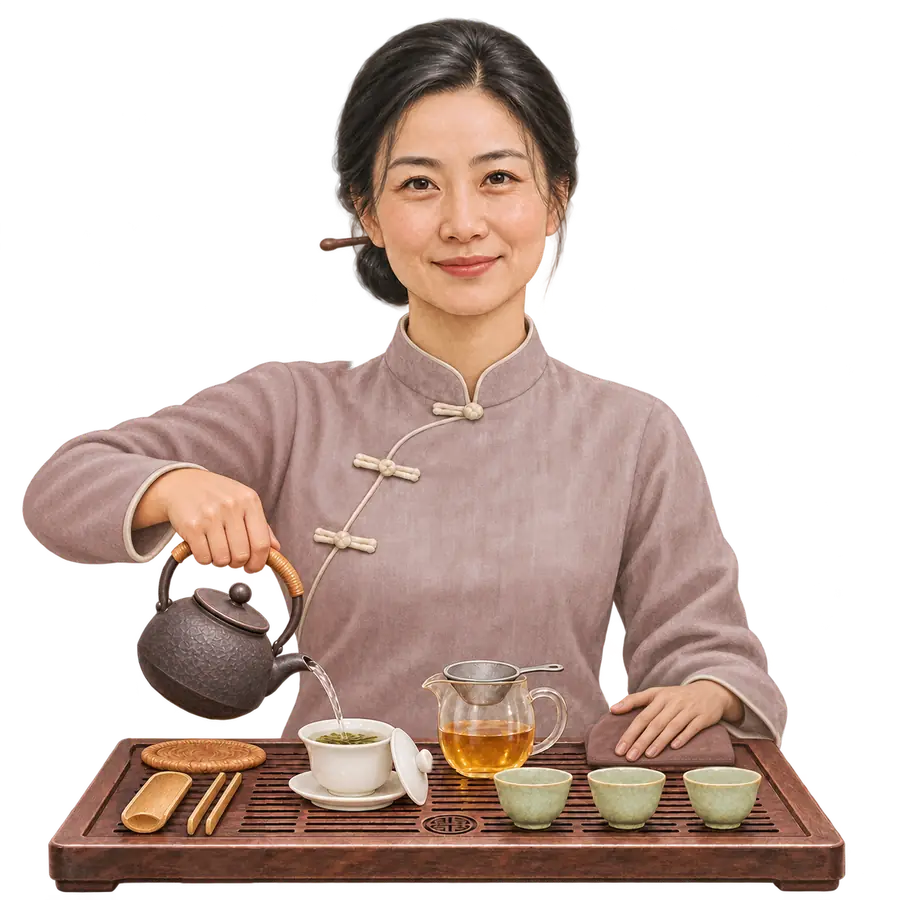
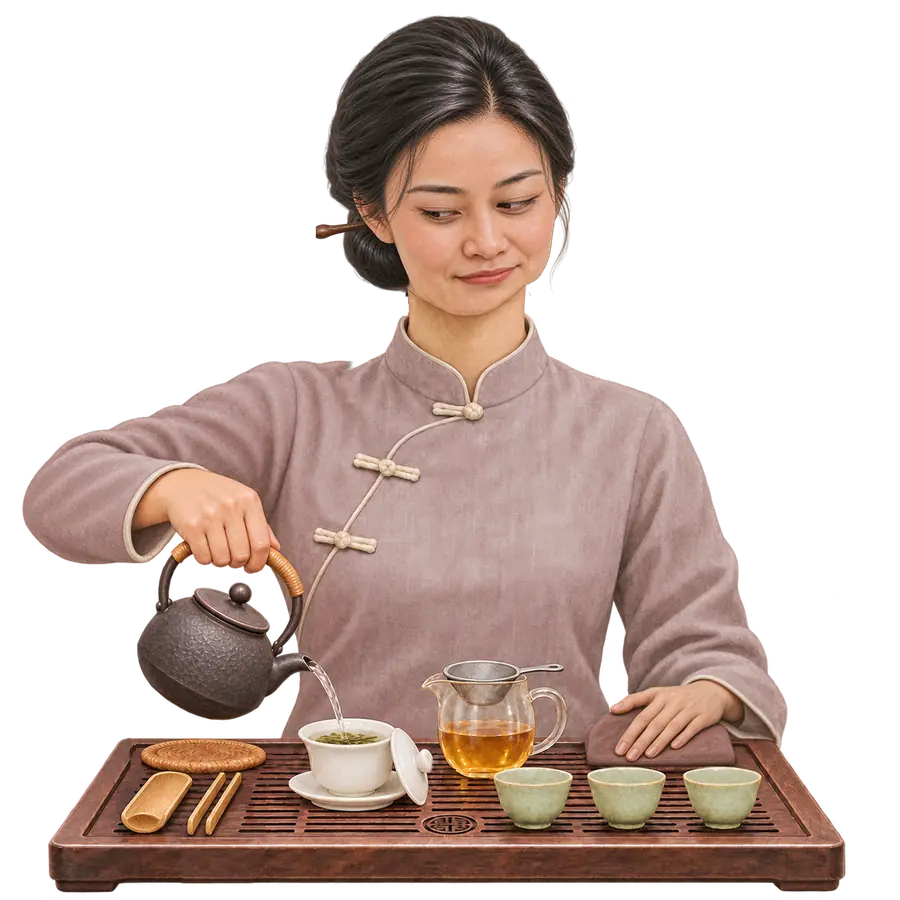
Master Su watches the pour; no flickers or cut-off pours
Round 3 frames from the animator: in the 12 working frames her head
tips towards the vessel and her eyes follow the stream; in the 7 reach
frames she glances down at what she is reaching for. Only the head
changed, everything else matches round 2.

Playback, for both hosts:
- a talking drawing is never up for a frame or two before a gesture
- a pour already under way is finished and set down before the host
  turns to answer, and the vessel only changes after that
- clicking Send no longer flashes the resting pose
- no blink straight after setting something down

Claude-Session: https://claude.ai/code/session_01FvpSvFpFZJn68NFhobHFM3

Changed region(s): [[0.3422, 0.0, 0.6533, 0.3422]]

diff --git a/index.html b/index.html
@@ -3744,7 +3744,7 @@ initReviews();
     const note=$("thNote"); if(note) note.textContent="Master Su is an AI character. She knows a lot about tea but can still be wrong, so check anything important. She answers in the language you write in. Your conversation isn’t saved.";}
   /* His frames: the idle drawing is always there; show() puts at most one pose over it ("" shows plain idle). */
   const frames={}; man.querySelectorAll("img[data-pose]").forEach(i=>{frames[i.dataset.pose]=i;});
-  let shown="", resting="", acting=0;
+  let shown="", resting="", acting=0, shownAt=0;
   /* a cut: the old frame off and the new one on in the same paint. A frame that hasn't loaded and decoded yet is
      skipped and he stays as he is, so a cut never shows an empty stage. */
   const ready=new Set([""]);
@@ -3774,7 +3774,7 @@ initReviews();
     patch.classList.toggle("on",gw&&PATCHED.has(name));
     const full=tea.cups&(name in CUPS?CUPS[name]:7); cupEls.forEach((c,i)=>c.classList.toggle("on",!!(full>>i&1)&&ready.has("+cup"+i)));
     if(name===shown) return;
-    frames[shown].classList.remove("on"); frames[name].classList.add("on"); shown=name;};
+    frames[shown].classList.remove("on"); frames[name].classList.add("on"); shown=name; shownAt=performance.now();};
   /* the vessel changes between replies, and only once every gaiwan drawing has loaded. A change of vessel is a
      change of tea, so the new vessel starts dry and empty; what is already in the pitcher and the cups stays. */
   const setVessel=on=>{on=!!on&&ready.has("+gaiwan")&&Object.keys(frames).every(n=>!/gaiwan/.test(n)||ready.has(n)); if(on===gw) return;
@@ -3789,7 +3789,7 @@ initReviews();
   const stop=()=>{acting=0; rest();};
   /* he blinks every few seconds while resting, now and then twice; the blink frame only fits the idle head */
   const blink=()=>{setTimeout(()=>{
-      if(!acting&&shown===""&&!quiet()){show("blink");
+      if(!acting&&shown===""&&!quiet()&&performance.now()-shownAt>350){show("blink");
         setTimeout(()=>{if(shown==="blink") show("");
           if(Math.random()<.2) setTimeout(()=>{if(!acting&&shown===""){show("blink"); setTimeout(()=>{if(shown==="blink") show("")},110);}},150);},120);}
       blink();},2600+Math.random()*3800);};
@@ -3973,8 +3973,12 @@ initReviews();
     const step=now=>{if(run!==acting){if(!done){done=true; el.innerHTML=para(text); follow(el.parentElement); res();} return;}
       const t=now-t0, k=Math.min(1,t/dur), g=tl.find(c=>t>=c.start&&t<c.end);
       if(g) act(g);
-      else if(t<dur){if(now>=flip){mouth^=1; flip=now+(mouth?260+Math.random()*420:380+Math.random()*640);}
-        const up=breaks.filter(b=>b<=k).length%2===1; show(mouth?(up?"talk-a":"talk-c"):(up?"talk-b":""));}
+      else if(t<dur){
+        /* the mouth and hands only change when the last drawing has been up long enough to be seen, and not just
+           before a gesture begins: a drawing that is up for a frame or two reads as a flicker, not as speech */
+        const soon=tl.some(c=>c.start>t&&c.start-t<160), steady=now-shownAt>=130;
+        if(steady&&!soon){if(now>=flip){mouth^=1; flip=now+(mouth?260+Math.random()*420:380+Math.random()*640);}
+          const up=breaks.filter(b=>b<=k).length%2===1; show(mouth?(up?"talk-a":"talk-c"):(up?"talk-b":""));}}
       else show(resting);
       if(!done){el.innerHTML=para(text.slice(0,Math.ceil(text.length*k))); log.scrollTop=log.scrollHeight;
         if(k>=1){done=true; follow(el.parentElement); res();}}
@@ -3985,6 +3989,8 @@ initReviews();
      pot is decanted within seconds, as it must be, and after that, every half minute or so, he shares the tea
      round, holds a cup out, drinks his own, starts the next infusion. Three steps at most, then he waits. */
   let quietT=0, quietN=0;
+  /* resolves once whatever the hands are doing has been played to the end */
+  const settled=()=>new Promise(r=>{const f=()=>acting&&!still()?requestAnimationFrame(f):r(); f();});
   const alone=()=>{clearTimeout(quietT); if(quietN>=3) return;
     quietT=setTimeout(()=>{
       if(busy||acting||quiet()||inp.value.trim()) return alone();
@@ -3992,7 +3998,7 @@ initReviews();
       quietN++; const run=++acting, t0=performance.now(), end=tl[tl.length-1].end;
       const step=now=>{if(run!==acting) return; const t=now-t0, g=tl.find(c=>t>=c.start&&t<c.end);
         if(g) act(g); else show(resting);
-        if(t<end) requestAnimationFrame(step); else{stop(); alone();}};
+        if(t<end) requestAnimationFrame(step); else{stop(); if(!busy) alone();}};
       requestAnimationFrame(step);},tea.steeped?5000+Math.random()*3000:22000+Math.random()*18000);};
   /* his greeting, for this moment on the mountain */
   /* Guests in mainland China: the Worker can tell roughly which province from their connection (nothing is stored),
@@ -4044,7 +4050,8 @@ initReviews();
     chips.querySelectorAll("button").forEach(b=>b.addEventListener("click",()=>ask(b.textContent)));};
   const setBusy=b=>{busy=b; inp.disabled=b||!chatUrl; send.disabled=b||!chatUrl; chips.querySelectorAll("button").forEach(x=>x.disabled=b);};
   async function ask(q){q=String(q||"").trim().slice(0,500); if(!q||busy) return;
-    clearTimeout(quietT); quietN=0; stop(); listen(true);
+    /* a pour already under way is finished and the pot set down, as anyone would, before the host turns to the guest */
+    clearTimeout(quietT); quietN=0; if(!acting) stop(); listen(true);
     /* the guest has had time to drink: a cup he held out to them comes back empty, and so does one left standing a while */
     if(tea.cups&4&&(tea.offered||++tea.sat>=2)){tea.cups&=~4; tea.offered=false; tea.sat=0; show(asked);}
     chips.innerHTML=""; add("me",para(q)); msgs.push({role:"user",content:q}); inp.value="";
@@ -4063,7 +4070,8 @@ initReviews();
       const d=await r.json(); const raw=String(d.reply||"").trim(); if(!raw) throw {code:"up"};
       const T=tidy(raw), reply=T.text;
       msgs.push({role:"assistant",content:reply});
-      /* he brews in the vessel that suits the tea he is talking about */
+      /* he brews in the vessel that suits the tea he is talking about, once the step in his hands is finished */
+      await settled();
       {const v=vesselFor(reply); if(v!==null) setVessel(v);}
       const cues=cuesFor(reply), has=g=>cues.some(c=>c.gesture===g);
       /* what the guest asked for with their own words, or what he wrote as a stage direction, he does as he starts to answer */
@@ -4080,7 +4088,7 @@ initReviews();
   form.addEventListener("submit",e=>{e.preventDefault(); ask(inp.value)});
   /* he looks up and listens while the guest is typing */
   inp.addEventListener("input",()=>{if(!busy) listen(inp.value.trim()!=="");});
-  inp.addEventListener("blur",()=>{if(!busy) listen(false);});
+  inp.addEventListener("blur",()=>setTimeout(()=>{if(!busy&&document.activeElement!==inp) listen(false);},150));
   /* greet the first time the tea house is opened */
   let greeted=false;
   /* He welcomes the guest with open hands and opens the round while he greets them: hot water over the cups, the
